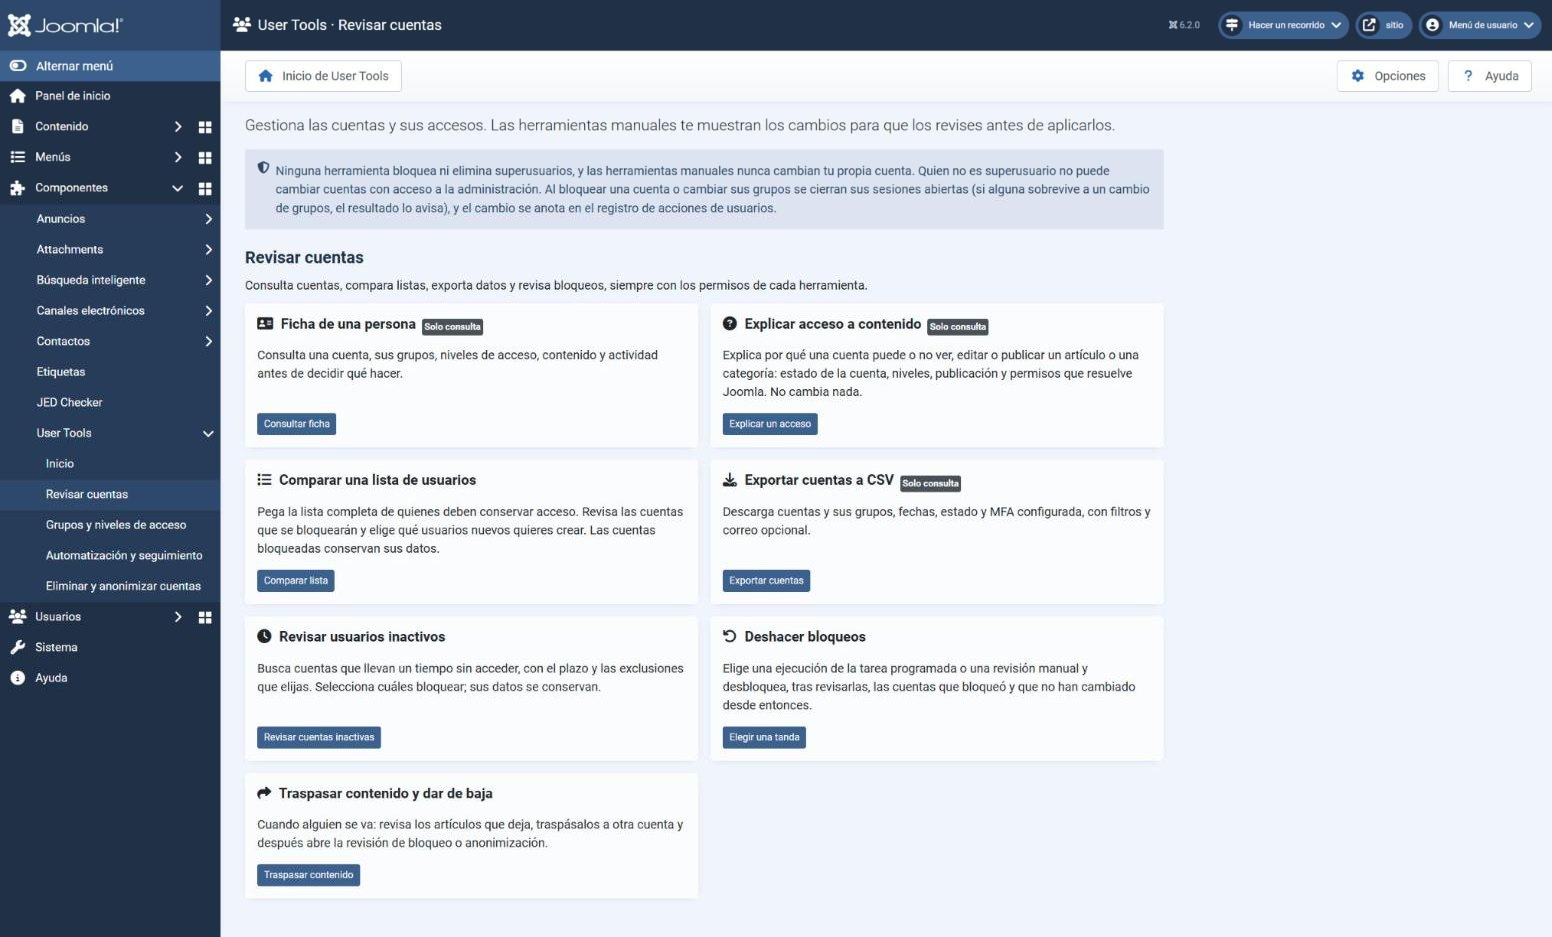
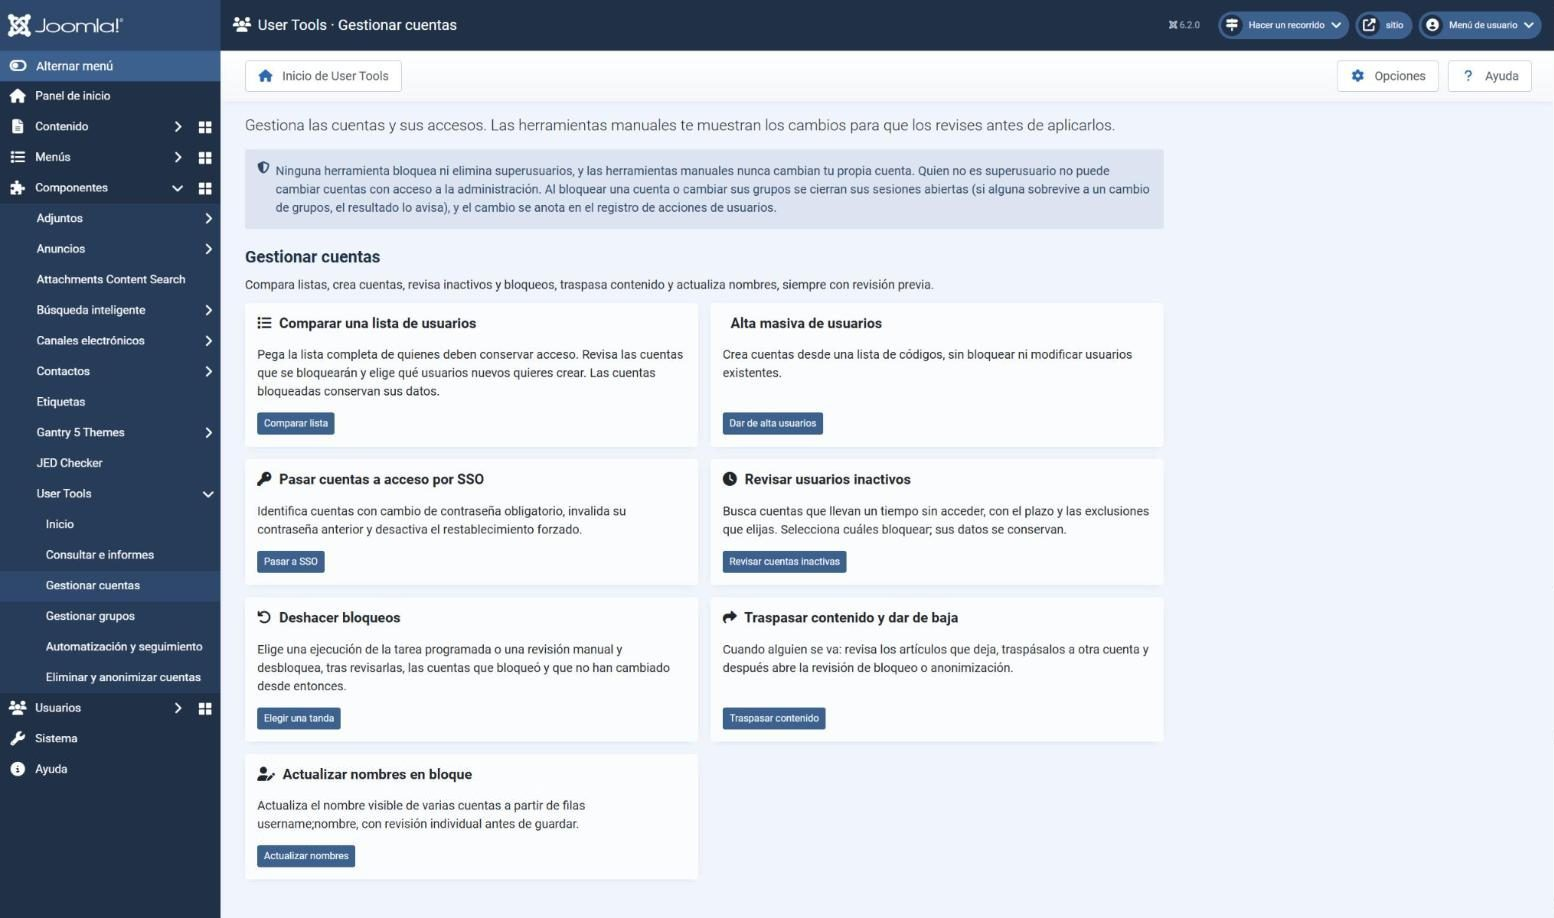
docs: screenshots of the home screen and categories organised by purpose

diff --git a/docs/capturas.md b/docs/capturas.md
@@ -4,15 +4,17 @@
 
 [Volver al README](../README.md)
 
-Estas capturas compartidas muestran la interfaz en español en Joomla 6.2.0. Cada pie indica la versión en que se hizo la captura cuando es reciente: las de eliminación son de 2026.10.5, las de quitar de grupos de 2026.10.9 y 2026.10.16, la revisión de la comparación y la de grupos y niveles de acceso de 2026.10.11, la de contenido por nivel de acceso de 2026.10.12, las de diagnóstico de accesos y la lista de contenido por antigüedad de 2026.10.15, las de mover grupos de 2026.10.16, las de añadir cuentas a grupos, exportar cuentas y deshacer bloqueos de 2026.10.19, las de la ficha de una persona de 2026.10.20, la tabla de contenido por antigüedad con sus cuatro tipos, las categorías de automatización, grupos y eliminación, y el recorrido guiado, de 2026.10.21, y la portada, las categorías «Revisar cuentas» y «Grupos y niveles de acceso», la ficha de una persona, el panel de Usuarios, la explicación de acceso, sincronizar un colectivo, traspasar contenido y el resultado de la anonimización, de 2026.11.0, y las de actualizar nombres en bloque, de 2026.11.4. Las que no indican versión corresponden a una interfaz anterior y pueden diferir de la actual. Para las opciones y el comportamiento vigentes, consulta el [README](../README.md) y las [preguntas frecuentes](../FAQ.md).
+Estas capturas compartidas muestran la interfaz en español en Joomla 6.2.0. Cada pie indica la versión en que se hizo la captura cuando es reciente: las de eliminación son de 2026.10.5, las de quitar de grupos de 2026.10.9 y 2026.10.16, la revisión de la comparación y la de grupos y niveles de acceso de 2026.10.11, la de contenido por nivel de acceso de 2026.10.12, las de diagnóstico de accesos de 2026.10.15, las de mover grupos de 2026.10.16, las de añadir cuentas a grupos, exportar cuentas y deshacer bloqueos de 2026.10.19, las de la ficha de una persona de 2026.10.20, la tabla de contenido por antigüedad con sus cuatro tipos, las categorías de automatización y eliminación, y el recorrido guiado, de 2026.10.21, y la ficha de una persona, el panel de Usuarios, la explicación de acceso, sincronizar un colectivo, traspasar contenido y el resultado de la anonimización, de 2026.11.0, las de actualizar nombres en bloque, de 2026.11.4, y la portada, las categorías «Consultar e informes», «Gestionar cuentas» y «Gestionar grupos», el alcance de cada grupo y la lista de contenido por antigüedad, de 2026.11.7. Las que no indican versión corresponden a una interfaz anterior y pueden diferir de la actual. Para las opciones y el comportamiento vigentes, consulta el [README](../README.md) y las [preguntas frecuentes](../FAQ.md).
 
 Además de estas capturas, la CI comprueba el orden de teclado, el despliegue del menú y la categoría activa, y guarda capturas a texto al 200 %, con preferencia oscura y a 390 px de ancho. Las tarjetas y los formularios caben a 390 px, pero la cabecera general de Joomla no parte el título de la página y genera un ancho de documento de unos 600 px, y hasta unos 780 px con los títulos más largos, como el de «Traspasar contenido y dar de baja»; no se ha alterado la plantilla para ocultarlo. Esto no acredita conformidad WCAG ni sustituye pruebas con lector de pantalla.
 
-![Portada de User Tools con sus cuatro categorías y todas las herramientas permitidas, y el menú Componentes → User Tools desplegado con Inicio activo (2026.11.0)](screenshots/01-portada.jpg)
+![Portada de User Tools con sus cinco categorías por finalidad y todas las herramientas permitidas, y el menú Componentes → User Tools desplegado con Inicio activo (2026.11.7)](screenshots/01-portada.jpg)
 
-![Categoría «Revisar cuentas», señalada en el menú, con sus siete herramientas, entre ellas «Traspasar contenido y dar de baja» (2026.11.0)](screenshots/31-menu-cuentas.jpg)
+![Categoría «Consultar e informes», señalada en el menú, con sus ocho herramientas de solo lectura (2026.11.7)](screenshots/48-menu-consultar.jpg)
 
-![Categoría «Grupos y niveles de acceso», señalada en el menú, con sus ocho herramientas, entre ellas «Sincronizar un colectivo» (2026.11.0)](screenshots/32-menu-grupos.jpg)
+![Categoría «Gestionar cuentas», señalada en el menú, con sus siete herramientas, entre ellas «Traspasar contenido y dar de baja» (2026.11.7)](screenshots/31-menu-cuentas.jpg)
+
+![Categoría «Gestionar grupos», señalada en el menú, con sus cuatro herramientas, entre ellas «Sincronizar un colectivo» (2026.11.7)](screenshots/32-menu-grupos.jpg)
 
 ![Categoría «Automatización y seguimiento»: bloqueo automático por inactividad, con el estado de su plugin, y resultados de tareas (2026.10.21)](screenshots/33-menu-automatizacion.jpg)
 

diff --git a/docs/screenshots.en.md b/docs/screenshots.en.md
@@ -4,15 +4,17 @@
 
 [Back to the README](../README.en.md)
 
-These shared screenshots show the Spanish interface on Joomla 6.2.0. Each caption gives the version the screenshot was taken with when it is recent: deletion in 2026.10.5, remove from groups in 2026.10.9 and 2026.10.16, the comparison review and groups and access levels in 2026.10.11, content by access level in 2026.10.12, access diagnosis and the content by age list in 2026.10.15, move groups in 2026.10.16, add accounts to groups, export accounts and undo blocks in 2026.10.19, the account profile in 2026.10.20, the content by age table with its four kinds, the automation, groups and delete categories and the guided tour in 2026.10.21, and the home screen, the “Review accounts” and “Groups and access levels” categories, the account profile, the Users dashboard, the access explanation, synchronising a group branch, handing over content and the anonymisation result in 2026.11.0, and those of bulk updating names in 2026.11.4. Screenshots without a version show an older interface and may differ from the current one. For current options and behaviour, see the [README](../README.en.md) and [FAQ](../FAQ.en.md).
+These shared screenshots show the Spanish interface on Joomla 6.2.0. Each caption gives the version the screenshot was taken with when it is recent: deletion in 2026.10.5, remove from groups in 2026.10.9 and 2026.10.16, the comparison review and groups and access levels in 2026.10.11, content by access level in 2026.10.12, access diagnosis in 2026.10.15, move groups in 2026.10.16, add accounts to groups, export accounts and undo blocks in 2026.10.19, the account profile in 2026.10.20, the content by age table with its four kinds, the automation and delete categories and the guided tour in 2026.10.21, and the account profile, the Users dashboard, the access explanation, synchronising a group branch, handing over content and the anonymisation result in 2026.11.0, those of bulk updating names in 2026.11.4, and the home screen, the “Look up and reports”, “Manage accounts” and “Manage groups” categories, the reach of each group and the content by age list in 2026.11.7. Screenshots without a version show an older interface and may differ from the current one. For current options and behaviour, see the [README](../README.en.md) and [FAQ](../FAQ.en.md).
 
 Besides these screenshots, CI checks keyboard order, menu expansion and the active category, and saves captures at 200% text size, with a dark preference and at 390 px width. The cards and forms fit at 390 px, but Joomla’s overall header does not wrap the page title and produces a document width of about 600 px, and up to about 780 px with the longest titles, such as “Hand over content and close an account”; the template has not been altered to hide this. This does not establish WCAG conformance or replace screen-reader testing.
 
-![User Tools home screen with its four categories and all permitted tools, and the Components → User Tools menu expanded with Home active (2026.11.0, Spanish interface)](screenshots/01-portada.jpg)
+![User Tools home screen with its five categories by purpose and all permitted tools, and the Components → User Tools menu expanded with Home active (2026.11.7, Spanish interface)](screenshots/01-portada.jpg)
 
-![“Review accounts” category, marked in the menu, with its seven tools, including “Hand over content and close an account” (2026.11.0, Spanish interface)](screenshots/31-menu-cuentas.jpg)
+![“Look up and reports” category, marked in the menu, with its eight read-only tools (2026.11.7, Spanish interface)](screenshots/48-menu-consultar.jpg)
 
-![“Groups and access levels” category, marked in the menu, with its eight tools, including “Synchronise a group branch” (2026.11.0, Spanish interface)](screenshots/32-menu-grupos.jpg)
+![“Manage accounts” category, marked in the menu, with its seven tools, including “Hand over content and close an account” (2026.11.7, Spanish interface)](screenshots/31-menu-cuentas.jpg)
+
+![“Manage groups” category, marked in the menu, with its four tools, including “Synchronise a group branch” (2026.11.7, Spanish interface)](screenshots/32-menu-grupos.jpg)
 
 ![“Automation and follow-up” category: automatic inactivity blocking, with its plugin status, and task results (2026.10.21, Spanish interface)](screenshots/33-menu-automatizacion.jpg)
 
